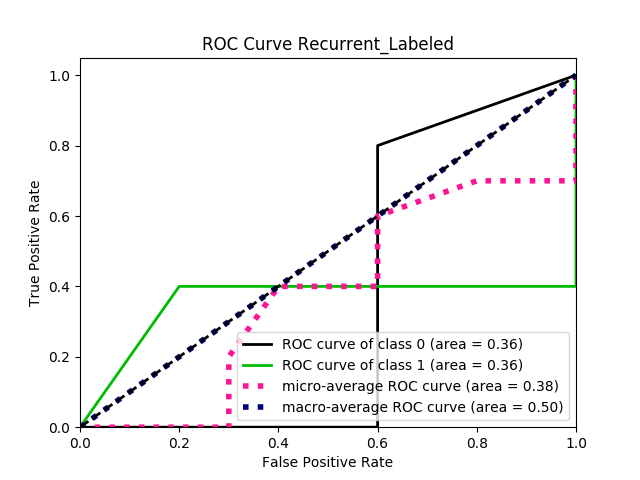
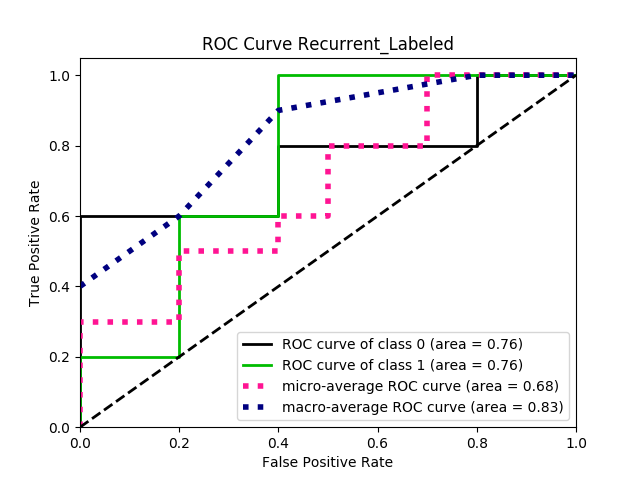
recurrent net tweaks

diff --git a/modeling/models/torch_recurrent_labeled/network.py b/modeling/models/torch_recurrent_labeled/network.py
@@ -1,4 +1,5 @@
 import torch
+import torch.nn.functional as F
 
 
 class RecurrentClassifier(torch.nn.Module):
@@ -51,7 +52,7 @@ class RecurrentClassifier(torch.nn.Module):
         """
         # [None] adds an axis for sequence length: number of time steps represented in the tensor, which is one
         # after making an observation, save the output and update the internal state
-        sequences = self.embedding(data['sequence'])
+        sequences = F.relu(self.embedding(data['sequence']))
 
         # start all recurrent states with learned initial values
         # the final state after forward prop is not shared between sequences
@@ -61,9 +62,10 @@ class RecurrentClassifier(torch.nn.Module):
             self.cell_state.expand(-1, batch_size, -1)
         )
 
-        # ignore final state via [0]
-        # take the final forward of each sequence
-        recurrent_out = self.recurrent(sequences, initial_state)[0][:, -1]
+        # (forward, (hidden state, cell state))[1][0][:, 0] propagates internal hidden state
+        # (forward, state)[0][:, -1] propagates final forward pass in sequence
+        # take the final state of each sequence
+        recurrent_out = F.relu(self.recurrent(sequences, initial_state)[0][:, -1])
 
         # combine the recurrent output with the operator
         combined = torch.cat((recurrent_out, data['operator'][:, 0]), 1)

diff --git a/modeling/app.py b/modeling/app.py
@@ -82,26 +82,26 @@ def run_lstm():
 if __name__ == '__main__':
     data_preferences = {"labeled": True, "window": 21}
     hyperparameters = {
-        "input_size": 5,
+        "input_size": 10,
         "vocabulary_size": len(get_vocabulary(**data_preferences)),
         "operators_size": len(get_operations(**data_preferences)),
         "layer_type": torch.nn.LSTM,
-        "recurrent_hidden_dim": 1,
+        "recurrent_hidden_dim": 5,
         "recurrent_layers": 1,
     }
 
     trainparameters = {
-        'epochs': 50
+        'epochs': 20
     }
 
     train_network(
-        DatasetLabeledBytecode(data_generator(**data_preferences), split='train'),
+        DatasetLabeledBytecode(data_generator(**data_preferences), split='train', seed=2),
         RecurrentClassifier(**hyperparameters),
         trainparameters
     )
 
     evaluate(*test_network(
-        DatasetLabeledBytecode(data_generator(**data_preferences), split='test'),
+        DatasetLabeledBytecode(data_generator(**data_preferences), split='test', seed=2),
         RecurrentClassifier(**hyperparameters)
     ), name='Recurrent_Labeled')
 
